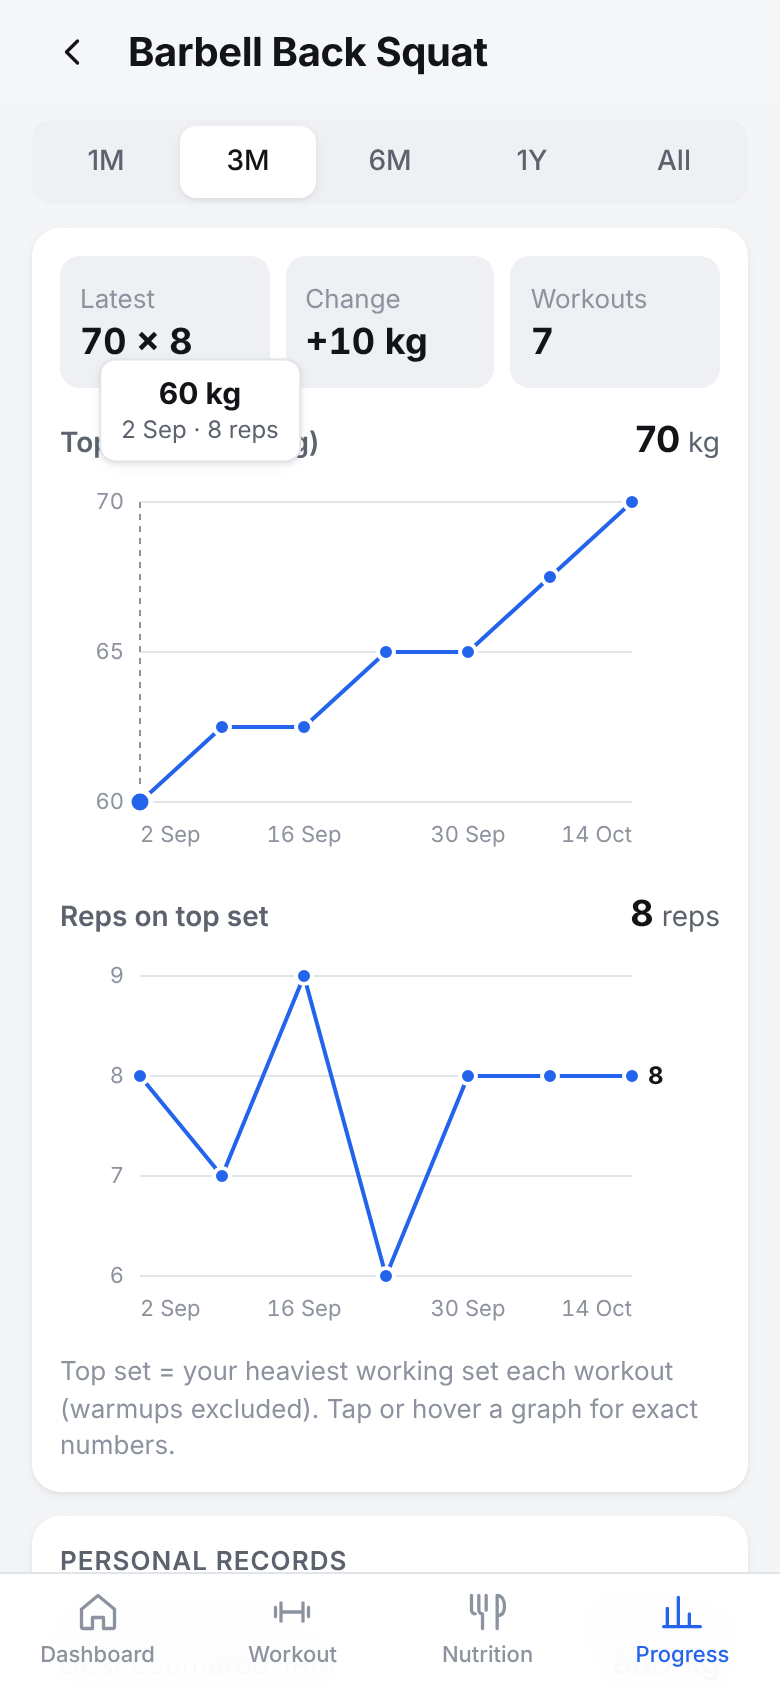
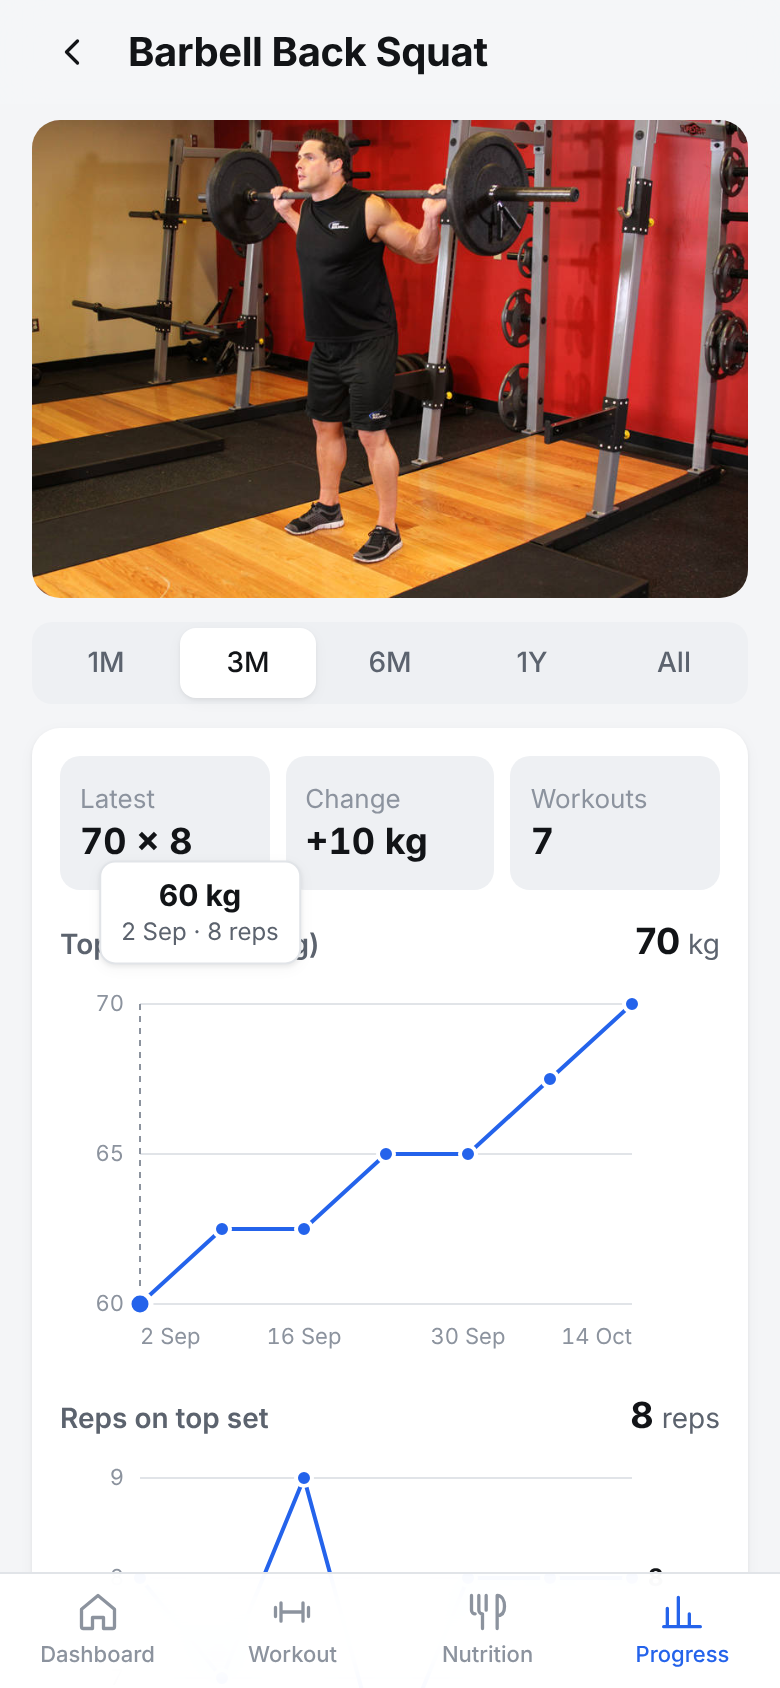
Add example photos for every exercise
One demo photo per built-in exercise, from free-exercise-db (public
domain), shown as a tappable thumbnail on workout and edit screens and
full width on each exercise's progress page.

Claude-Session: https://claude.ai/code/session_01Qo9KYVPUHp9xWe2EyeCQPy

diff --git a/src/components/ExerciseImage.tsx b/src/components/ExerciseImage.tsx
@@ -1,0 +1,33 @@
+import { useState } from "react";
+import { Sheet } from "./ui";
+
+// Demo photos from free-exercise-db (github.com/yuhonas/free-exercise-db),
+// released into the public domain (Unlicense). Stored in public/exercises/.
+const HAS_IMAGE = new Set(["bench-dip","bench","cable-curl","cable-fly","cable-lat-raise","cable-row","calf-raise","chest-row","crunch","db-bench","db-calf","db-curl","db-fly","db-rdl","db-rear-delt","db-row","glute-bridge","goblet-squat","hammer-curl","hip-thrust","incline-db","lat-raise","leg-curl","leg-ext","leg-press","lunge","machine-press","machine-shoulder","oh-ext","ohp","plank","pulldown","pullup","pushdown","pushup","rdl","rear-delt","split-squat","squat"]);
+
+export const exerciseImageUrl = (id: string) => (HAS_IMAGE.has(id) ? `${import.meta.env.BASE_URL}exercises/${id}.jpg` : null);
+
+/** Small thumbnail; tap to see it full size. Renders nothing for exercises without a photo. */
+export function ExerciseThumb({ id, name, size = 52 }: { id: string; name: string; size?: number }) {
+  const [open, setOpen] = useState(false);
+  const url = exerciseImageUrl(id);
+  if (!url) return null;
+  return (
+    <>
+      <button className="ex-thumb" style={{ width: size, height: size }} onClick={() => setOpen(true)} aria-label={`How to do ${name}`}>
+        <img src={url} alt="" loading="lazy" />
+      </button>
+      <Sheet open={open} onClose={() => setOpen(false)} title={name}>
+        <img src={url} alt={`Example of ${name}`} style={{ width: "100%", borderRadius: 12 }} />
+        <p className="faint">Example photo: free-exercise-db (public domain).</p>
+      </Sheet>
+    </>
+  );
+}
+
+/** Full-width photo for an exercise's page. */
+export function ExerciseHero({ id, name }: { id: string; name: string }) {
+  const url = exerciseImageUrl(id);
+  if (!url) return null;
+  return <img src={url} alt={`Example of ${name}`} className="ex-hero" loading="lazy" />;
+}

diff --git a/src/screens/TemplateEditor.tsx b/src/screens/TemplateEditor.tsx
@@ -2,6 +2,7 @@ import { useLiveQuery } from "dexie-react-hooks";
 import { useState } from "react";
 import { useParams } from "react-router-dom";
 import { ExercisePicker } from "../components/ExercisePicker";
+import { ExerciseThumb } from "../components/ExerciseImage";
 import { Icon } from "../components/Icon";
 import { Header, Loading, NumberInput, Sheet } from "../components/ui";
 import { db, uid } from "../db/db";
@@ -36,6 +37,7 @@ export default function TemplateEditor() {
           {g.supersetId && g.items.length > 1 && <div className="faint" style={{ padding: "8px 12px 0" }}>Superset</div>}
           {g.items.map((it) => (
             <div key={it.id} className="ex-head">
+              <ExerciseThumb id={it.exerciseId} name={name(it)} size={44} />
               <div className="grow">
                 <h4>{name(it)}</h4>
                 <div className="faint">{it.sets} sets · {it.repMin}–{it.repMax} reps</div>

diff --git a/src/screens/Session.tsx b/src/screens/Session.tsx
@@ -2,6 +2,7 @@ import { useLiveQuery } from "dexie-react-hooks";
 import { useEffect, useRef, useState } from "react";
 import { Link, useNavigate, useParams } from "react-router-dom";
 import { ExercisePicker } from "../components/ExercisePicker";
+import { ExerciseThumb } from "../components/ExerciseImage";
 import { Icon } from "../components/Icon";
 import { Confirm, Loading, NumberInput, Sheet, Unverified, fmt } from "../components/ui";
 import { db } from "../db/db";
@@ -143,6 +144,7 @@ export default function Session() {
               return (
                 <div key={it.id} style={{ paddingBottom: 8 }}>
                   <div className="ex-head">
+                    <ExerciseThumb id={it.exerciseId} name={it.exerciseName} />
                     <div className="grow">
                       <h4>{it.exerciseName}</h4>
                       <div className="faint">{it.repMin}–{it.repMax} reps</div>

diff --git a/src/screens/ExerciseHistory.tsx b/src/screens/ExerciseHistory.tsx
@@ -2,6 +2,7 @@ import { useLiveQuery } from "dexie-react-hooks";
 import { useState } from "react";
 import { Link, useParams } from "react-router-dom";
 import { ProgressChart } from "../components/ProgressChart";
+import { ExerciseHero } from "../components/ExerciseImage";
 import { Header, Loading, NumberInput, Segmented, Sheet, fmt } from "../components/ui";
 import { db } from "../db/db";
 import type { SetRecord } from "../db/types";
@@ -31,6 +32,7 @@ export default function ExerciseHistory() {
   return (
     <div className="screen">
       <Header title={data.ex?.name ?? "Exercise"} back />
+      {data.ex && <ExerciseHero id={data.ex.id} name={data.ex.name} />}
       {data.rows.length > 0 && (
         <>
           <Segmented label="Time range" value={range} onChange={setRange} options={[["1m", "1M"], ["3m", "3M"], ["6m", "6M"], ["1y", "1Y"], ["all", "All"]]} />

diff --git a/src/styles.css b/src/styles.css
@@ -294,3 +294,6 @@ video.scanner { width: 100%; border-radius: var(--radius); background: #000; asp
 .stat-row { display: grid; grid-template-columns: repeat(3, 1fr); gap: 8px; }
 .stat-row > div { background: var(--surface-2); border-radius: 10px; padding: 10px; }
 .stat-row b { display: block; font-size: 18px; font-variant-numeric: tabular-nums; }
+.ex-thumb { flex: none; padding: 0; border: 0; border-radius: 10px; overflow: hidden; background: var(--surface-2); }
+.ex-thumb img { width: 100%; height: 100%; object-fit: cover; display: block; }
+.ex-hero { width: 100%; aspect-ratio: 3 / 2; object-fit: cover; border-radius: var(--radius); margin-bottom: 12px; background: var(--surface-2); display: block; }
